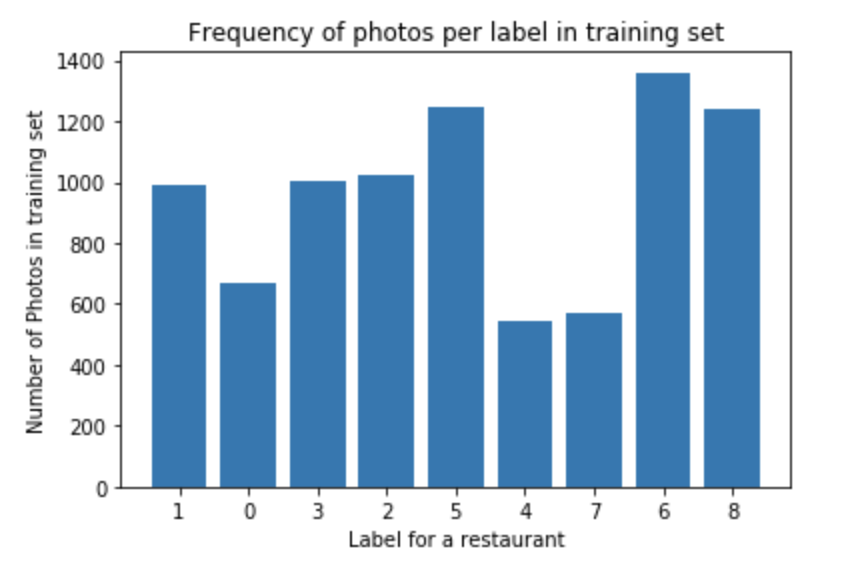
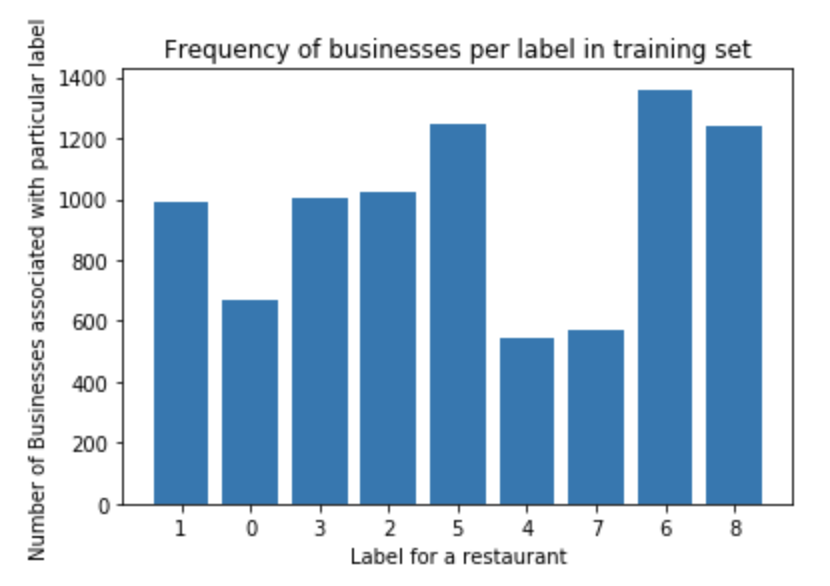
Add augmented dataset information in project report.

Changed region(s): [[0.0301, 0.0297, 0.9639, 0.9808]]

diff --git a/projects/capstone/final_project/project_report.md b/projects/capstone/final_project/project_report.md
@@ -21,6 +21,13 @@ January 24th, 2018
 [image12]: ./images/yelp_rest_test_image_1.jpg "Free-Form Test Image-1"
 [image13]: ./images/yelp_rest_test_image_2.jpg "Free-Form Test Image-2"
 [image14]: ./images/free_form_output.png "Free-Form Output"
+[image15]: ./images/1299.jpg "Train dataset Image - 1"
+[image16]: ./images/131861.jpg "Train dataset Image - 2"
+[image17]: ./images/training_data_augmentation_distribution.png "Augmented Training dataset distribution"
+[image18]: ./images/999.jpg "Original training image"
+[image19]: ./images/999_rotated.jpg "Rotated training image"
+[image20]: ./images/999_gamma.jpg "Gamma adjusted training image"
+[image21]: ./images/grid_search_best_classifiers.png "Best classifier for each label class"
 
 
 ## I. Definition
@@ -30,12 +37,17 @@ This project focuses on analyzing and predicting various types of labels a Resta
 
 With users wanting a good recommendation for trying out new restaurants, it becomes increasingly necessary to develop a robust machine learning algorithm that can correctly classify restaurants based on various parameters like the quality of food, average wait times, kid friendly etc. This problem is just a stepping stone in classifying different types of business based on user uploaded pictures of restaurants and their qualities in order to provide better services than manual task are able to achieve.
 
+A similar research is done to use image-recognition algorithms to classify the type of food being eaten by a person in restaurant for the purpose of automatic food journaling. [9]
+
 
 ### Problem Statement
 
 The main goal of this project is to look at various pictures of a restaurant business, identify its core features from the images and classify them based on their features. There are thousands of photos uploaded by users everyday in different lighting conditions, shapes, angle that it becomes difficult to properly tag them without the help of automated system.
 
-The problem can be considered as a classification problem, where images can have multiple class labels assigned to them. A user searching for a particular restaurant, say kid friendly, will help deliver results which are useful to them and in the end saving time.
+The problem can be considered as a classification problem, where images can have multiple output class labels assigned to them. For example, a scenery image may contain roads, mountains or plains, clouds etc. In this case the output labels represent whether an image contains cloud in it or whether there is home in the image etc. Similarly for restaurants, a multiple output class label can be described as whether a image contains food or drinks, or the type of food in the plate. A user searching for a particular restaurant, say kid friendly, will help deliver results which are useful to them and in the end saving time.
+
+For this problem, I plan to use different methods involving scaling the input images to a consistent size, changing the RBG color images to different format for processing. I also plan to use multi-label classification algorithm called OneVsRestClassifier to predict multiple labels for a single data input while using SVM classifier as the base. This is explained in detail in next few sections.
+
 
 <br>
 
@@ -53,6 +65,8 @@ The following evaluation metrics can be used in this case:
 
   The benchmark model for this problem has a F-beta score of 0.64597 with random guessing algorithm [3]. A solution model having F-beta score _more_ than the benchmark model can be considered as good model.
 
+The F-1 score was chosen for this model as this score gives more accurate outcome than in comparison to other metrics like accuracy metric. Accuracy only measures the correctness of predicted labels whereas F-1 score will measure both the precision (Number of samples correct out of total predicted to be positive) and recall (number of samples correct out of total correct samples) of the classifier and produce results that accurately maps test's correctness.
+
 
 ## II. Analysis
 ### Data Exploration
@@ -68,7 +82,17 @@ Following are some specifications of the dataset
 | Total number of businesses in training set   |  1,996 |
 | Total number of businesses in testing set   | 10,000  |
 
-The dataset contains mapping of photos to a particular business in both train and test set. The images are of high quality and mostly have different height and width.
+The dataset contains mapping of photos to a particular business in both train and test set. The images contained in the dataset are of different sizes. Examples of some of the images from training
+dataset is shown below:
+
+An image with lower quality and dimensions of 500x375 pixels (width x height)  
+![alt text][image15]
+
+
+An image with better quality than previous one and dimensions of 375x500 pixels (width x height)  
+![alt text][image16]
+
+
 
 The below image shows how the training photos id's are mapped to each business id in the dataset.
 
@@ -110,11 +134,11 @@ The training dataset did have some abnormalities, which were identified while wo
 
 
 ### Exploratory Visualization
-The plot below shows the number of photos present for each class of label for restaurant.
+The plot below shows the number of businesses that represent for each class of label for restaurant.
 
 ![alt text][image5]
 
-From the above plot, it is evident that each class of labels that we are trying to predict upon has sufficient number of photos to extract features and make a prediction. This ensures that no particular class of label will be biased in training.
+From the above plot, it is evident that there is some bias towards the output labels of (5, 6, 8) while the classes (0, 4, 7) are under-represented in this dataset. I did some data augmentation like rotation and gamma correction to some of the images represented by output labels (0, 4, 7) to increase their number in dataset and prevent bias from happening. The augmentation step is explained in the data pre-processing section below.
 
 
 Also, the below images show the distribution of images between different businesses.
@@ -172,6 +196,28 @@ The steps performed in pre-processing the data are as follows:
 
 
 At the end of these steps, all the images were of same size with same order of color channels to provide consistent results.
+
+The next step in pre-processing was augmenting the dataset with images that under-represented output class labels (0, 4, 7). I specifically added images for these classes to prevent any bias from happening and the classifier actually learns the features and not memorize them.
+
+To add data to existing training dataset, I used the scikit learn transform library to transform the images by performing following steps:
+1. Rotating the images by either 90, 180 or 270 degress randomly.
+2. Adjusting the brightness (gamma) of the image by decreasing the brightness by quarter or half or doubling the brightness randomly.
+
+Example of an image that went through pre-processing steps is shown below:
+
+The original image in the training dataset:  
+![alt text][image18]
+
+The rotated image (image rotated randomly by 90 degrees):  
+![alt text][image19]
+
+
+The brightness adjusted image (brightness reduced by half):  
+![alt text][image20]
+
+
+The updated plot showing the frequency of businesses that represent each class of label is shown below:  
+![alt text][image17]
 
 <br>
 
@@ -241,11 +287,22 @@ The first step in refinement was to choose between a custom Convolution Neural n
 The main tradeoff between choosing the two was the training time for computing features for 234,842 training images and 237,152 testing images. Using a custom built CNN was taking long time to process all the images (sometimes more than 6 hours). The accuracy of finding the correct features was also a concern as if enough different features are not present, the classifier may not produce good results. Due to processing time and accuracy, I used the existing Caffe model to extract the features.
 
 
-The second refinement I made was adjusting the parameters of Support Vector Machine used in the OneVsRestClassifier algorithm.
+The second refinement I made was adjusting the parameters of Support Vector Machine used in the OneVsRestClassifier algorithm. I first used the linear kernel as the base classifier. I then switched to an RBF kernel with a random state as my next classifier.
 
-The results for the linear kernel SVM on testing dataset had an accuracy of 0.75. Given the dataset (images) and the features extracted from it, it seems that this data is not linearly separable as many image features were conflicting with the labeled outputs. So, I used the 'Radial basis function (rbf)' kernel to create hyperplanes so as to differentiate between different features. The results for using rbf kernel on testing dataset resulted in improved accuracy of 0.79.
+The results for the linear kernel SVM on testing dataset had an F-1 score of 0.75. Given the dataset (images) and the features extracted from it, it seems that this data is not linearly separable as many image features were conflicting with the labeled outputs. So, I used the 'Radial basis function (rbf)' kernel to create hyperplanes so as to differentiate between different features. The results for using rbf kernel on testing dataset resulted in improved F-1 score of 0.79.
 
 
+The third refinement I made was making use of sklearn's `GridSearchCV` algorithm with SVM as the estimator to find the best SVM parameters that fits the data. The various parameters used for doing an exhaustive search by GridSearchCV were:
+1. Kernel type for SVM: either linear or rbf.
+2. The 'C' parameter: Values were [1, 10, 50]
+3. The 'Gamma' parameter: Values were [1e-3, 1e-2, 0.2]
+
+
+The results for the GridSearchCV with maximum results have the following parameters for each output label:
+
+![alt text][image21]
+
+However, the actual F-1 score obtained by the GridSearchCV classifier on testing dataset on Kaggle website was lower than SVM classifier with rbf kernel and no tuning of other hyperparameters. The F-1 score for GridSearchCV is 0.713.
 
 
 ## IV. Results
@@ -263,18 +320,22 @@ The choice of using CaffeNet reference model assures that any changes in input i
 
 The choice of OneVsRestClassifier() seems appropriate for this multi-label classifying problem as this algorithm will try to fit a classifier for each class of labels in order to predict the correct labels for testing set.
 
-This model choice is confirmed by the fact that it was able to achieve a high accuracy of 0.79 on 237,152 testing images alone.
+This model choice is confirmed by the fact that it was able to achieve a high F-1 score of 0.79 on 237,152 testing images alone using rbf kernel with SVM classifier as the base classifier.
 
-Also, the model achieved a high accuracy score of 0.829 on validation dataset (25% of training dataset was reserved to be used as validation data).
+Also, the model achieved a high F-1 score of 0.829 on validation dataset (25% of training dataset was reserved to be used as validation data).
 
 
 ### Justification
 
-The benchmark model earlier mentioned had an accuracy rate of 0.64597 with random guessing as the algorithm chosen.
+The benchmark model earlier mentioned had an F-1 score of 0.64597 with random guessing as the algorithm chosen.
 
-The model implemented above with an SVM classifier using `Linear` kernel had an accuracy of 0.75.
+The model implemented above with an SVM classifier using `Linear` kernel had an F-1 score of 0.75.
 
-The same model with SVM classifier using `RBF` kernel has an even higher accuracy of 0.79. This accuracy result is from the Kaggle website and affirms that this model is stronger than the benchmark model and does a good job in classifying of nearly 80% of images into correct categories.
+The same model with SVM classifier using `RBF` kernel has an even higher F-1 score of 0.79.
+
+The F-1 score obtained by using GridSearchCV with best parameters as rbf kernel in an SVM classifier having C and gamma values as 10 and 1e-2, respectively, is 0.713.
+
+Hence, the F-1 score obtained by rbf kernel SVM (0.79), which is obtained from the Kaggle website, affirms that this model is stronger than the benchmark model and does a good job in classifying of nearly 80% of images into correct categories.
 
 ![alt text][image7]
 
@@ -354,3 +415,7 @@ All the references that I used that made me realized this project are as follows
   3. https://www.kaggle.com/c/yelp-restaurant-photo-classification/discussion/18762
 
 8. Getting started with Caffe http://adilmoujahid.com/posts/2016/06/introduction-deep-learning-python-caffe/
+
+9. V. Bettadapura, E. Thomaz, A. Parnami, G. D. Abowd and I. Essa, "Leveraging Context to Support Automated Food Recognition in Restaurants," 2015 IEEE Winter Conference on Applications of Computer Vision, Waikoloa, HI, 2015, pp. 580-587.
+doi: 10.1109/WACV.2015.83
+http://ieeexplore.ieee.org/abstract/document/7045937/
